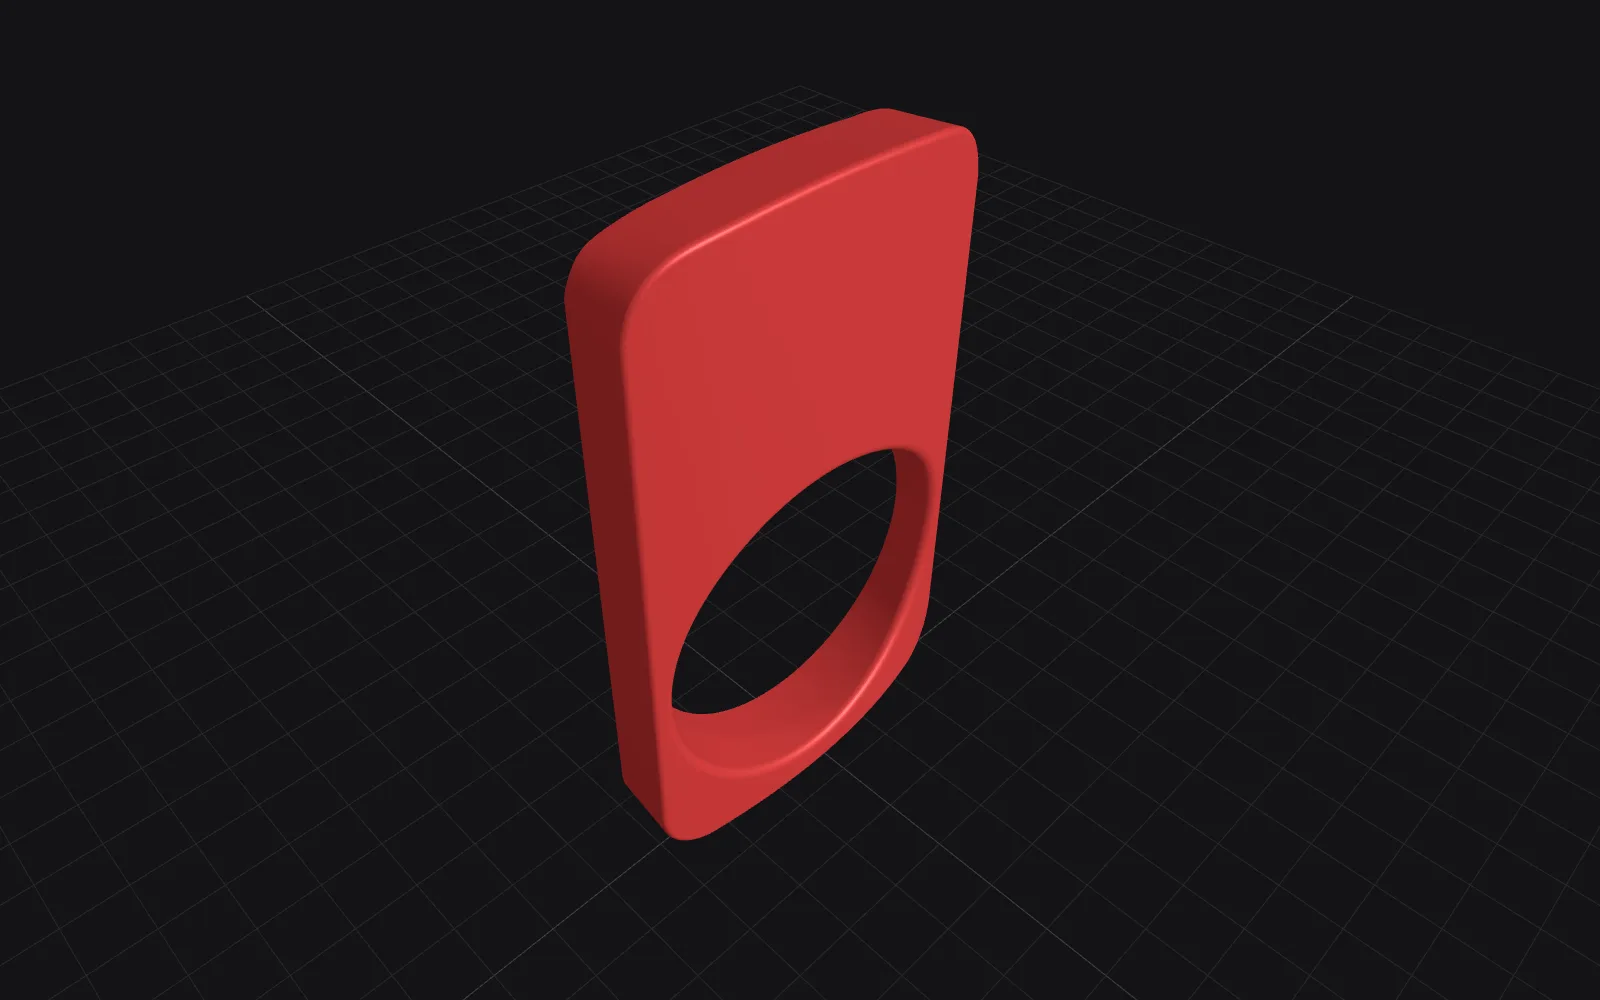
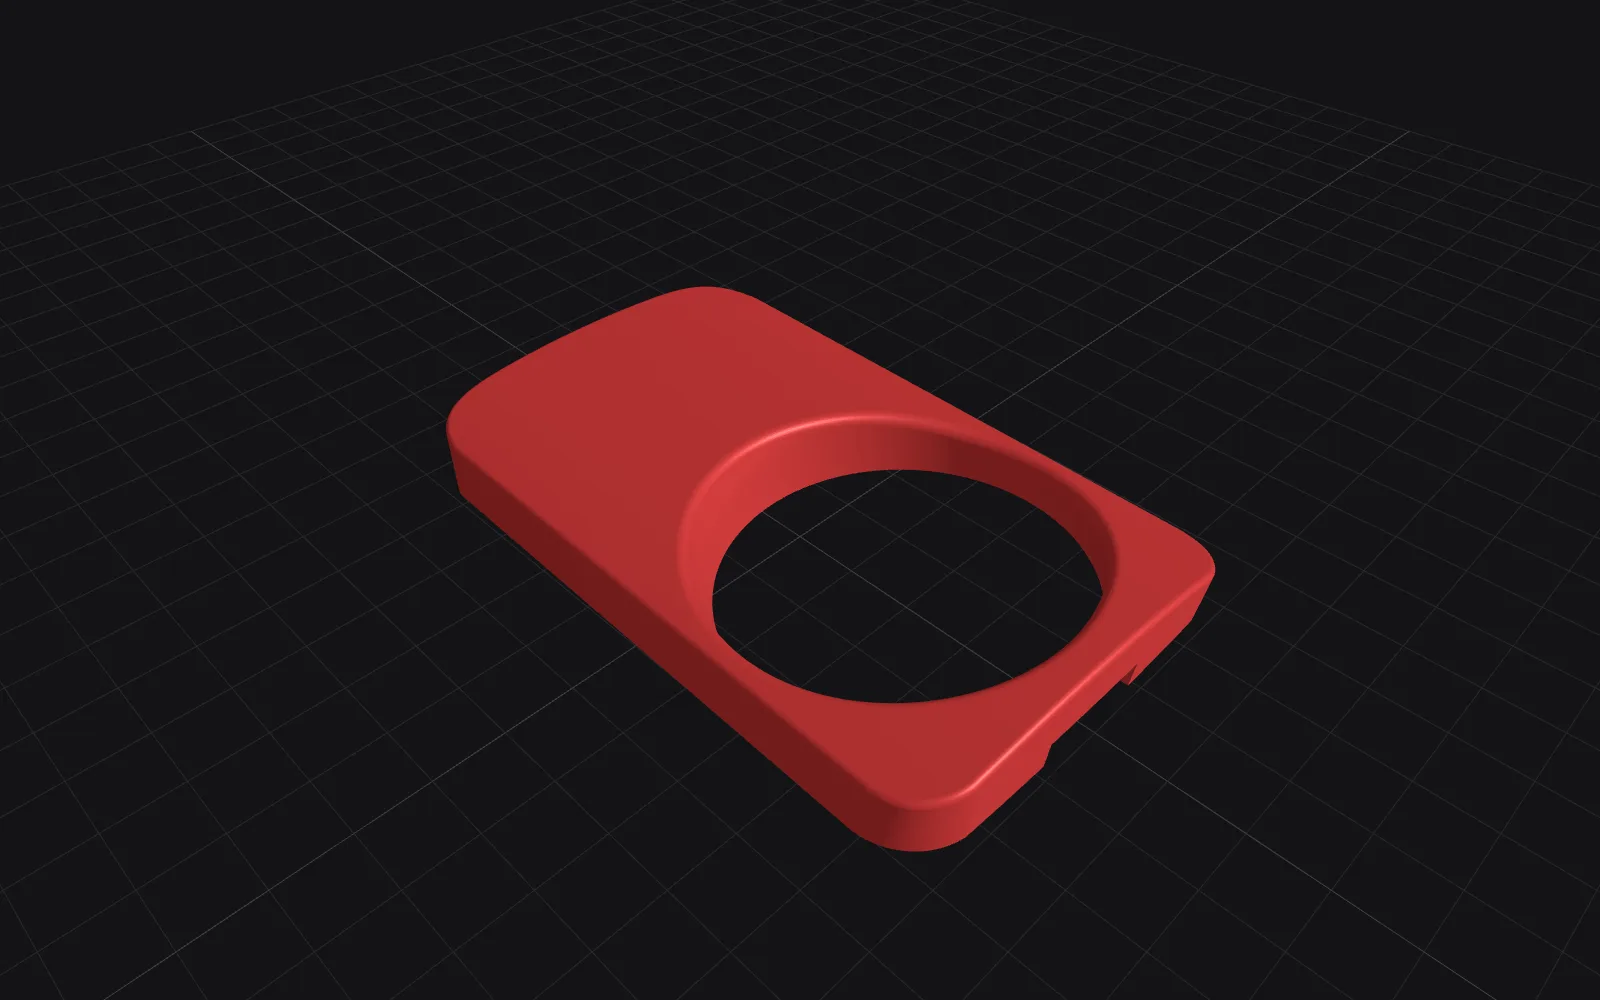
Match the 3MF's colour, and lay every model down the way it prints
Two things made the six previews look like six different sites.

Colour. The strut brace guard was the only grey one because it is the only
3MF: finish() painted STL meshes with the accent material, while frame() —
the path 3MF, OBJ and glTF take — applied no material at all, so the file's
own came through. recolour() now paints untextured meshes with the same
accent, so a 3MF matches the STL beside it.

Its guard is deliberately narrow. The file does carry colour: a
<m:colorgroup> with #A0A0A0 on *every* vertex. That is a flat grey with no
more information than an STL carries, and it was the entire reason the model
rendered grey — so coloursVary() checks whether the values actually differ
and only then leaves the mesh alone. A texture, or vertex colours that
genuinely vary, still win; one repeated colour does not.

Orientation. Every model stood upright, none lay flat. The files are Z-up —
CAD's convention, where a part resting on the build plate is thin along Z —
and three.js is Y-up, so a plate lying flat in its own file arrives standing
on its edge. The data is not ambiguous: five of six models are thinnest
along Z and the sixth is near-cubic, which is not how randomly-oriented files
land (about 2% likely). axisFix() applies -90° about X, the Z-up → Y-up
conversion glTF specifies, wrapped in a pivot so an exporter's own root
transform survives.

Measured on the regenerated previews, before → after, at the same camera
[…]

Changed region(s): [[0.2812, 0.093, 0.7812, 0.868], [0.4375, 0.434, 0.5, 0.465], [0.4688, 0.496, 0.5, 0.527]]

diff --git a/src/content/models/fd3s-rx7-trunk-tool-cover-clip.md b/src/content/models/fd3s-rx7-trunk-tool-cover-clip.md
@@ -4,7 +4,7 @@ slug: fd3s-rx7-trunk-tool-cover-clip
 description: The plastic clip that holds the trunk tool cover. OEM ones snap, and they are getting hard to find — this is a direct replacement.
 notes: ''
 file: /models/Trunk_Tool_Cover_Clip_v7.stl
-preview: /images/models/pasted-image-1794422136700.png
+preview: /images/models/fd3s-rx7-trunk-tool-cover-clip.webp
 category: Automotive
 downloads: 0
 credit: Code Red Performance
